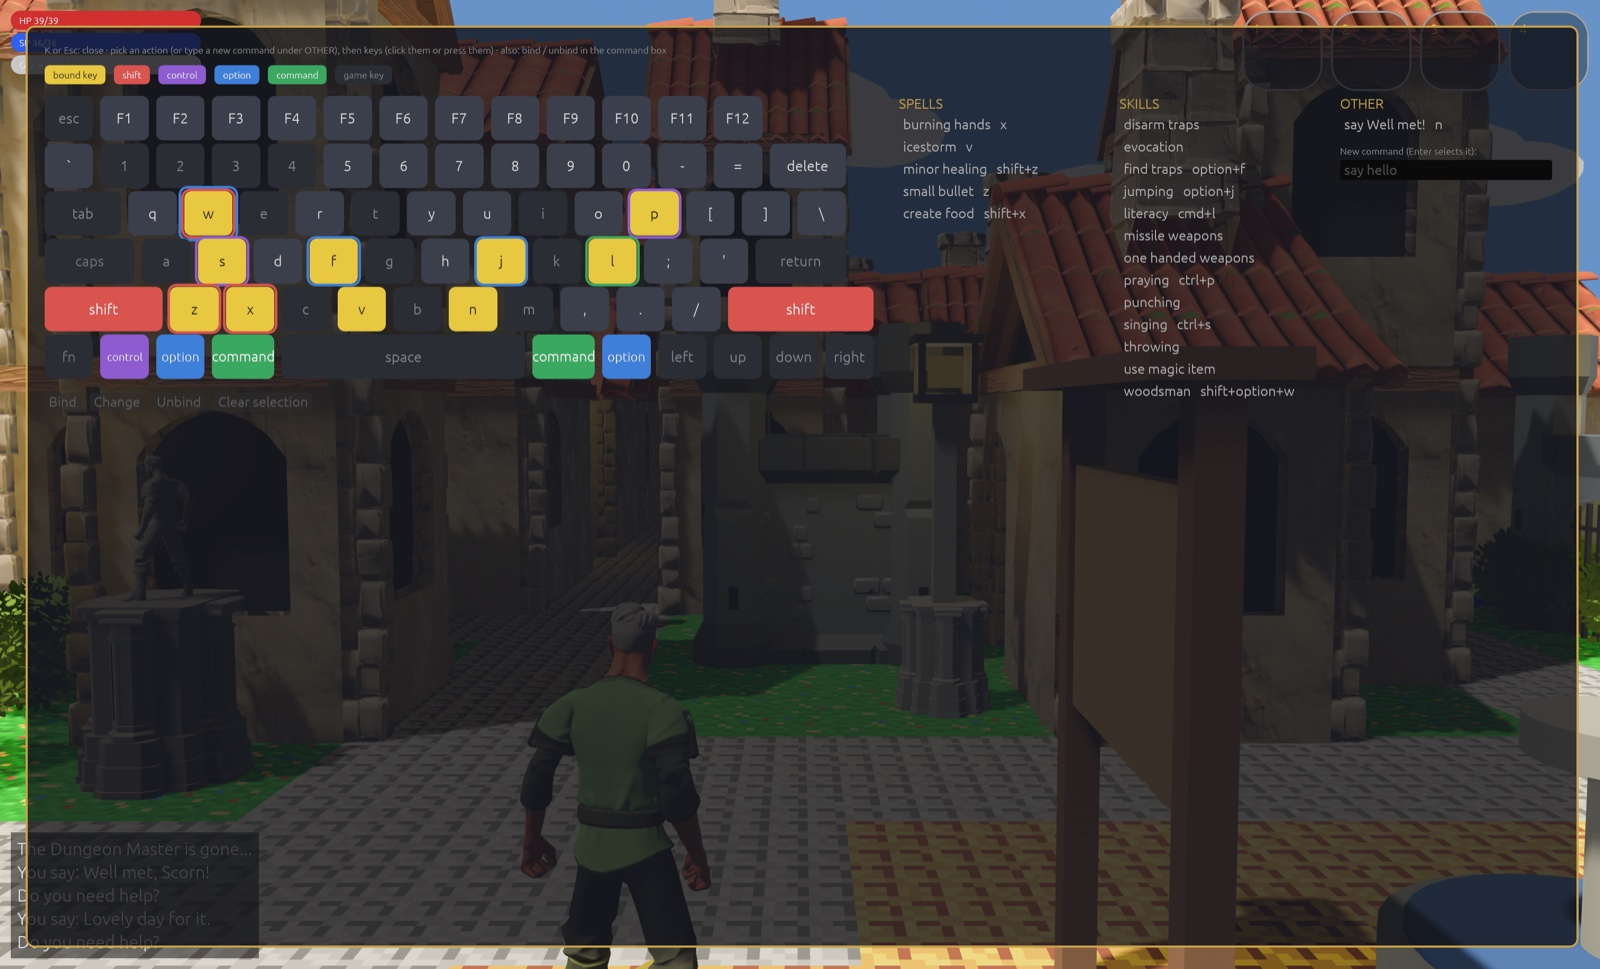
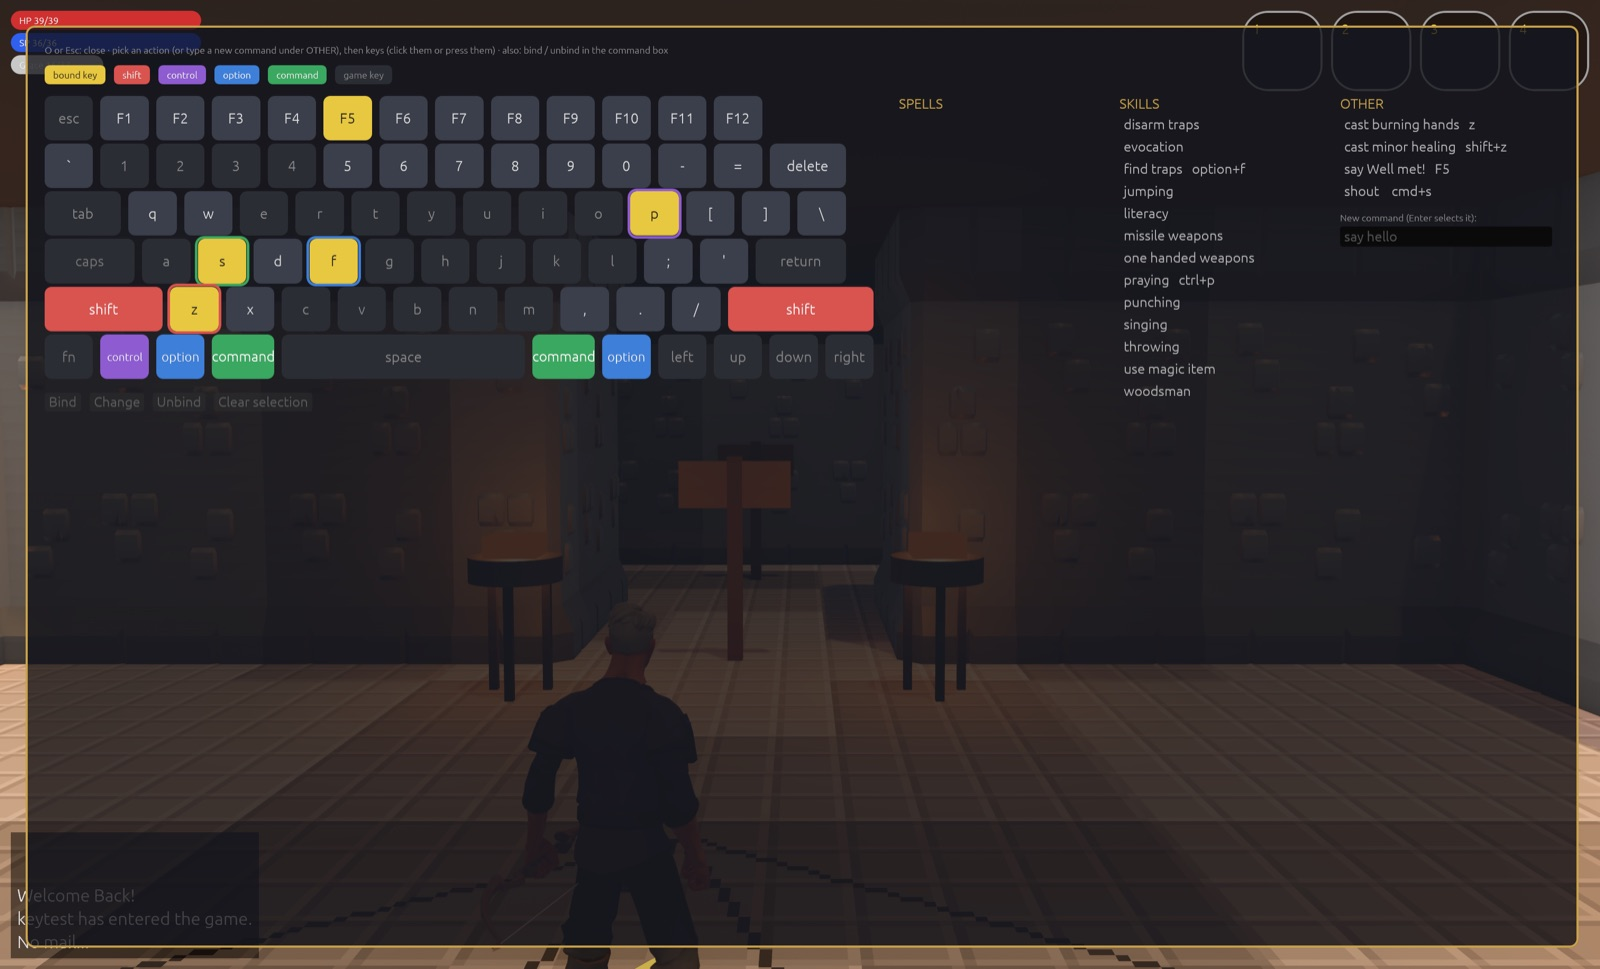
docs: a keys page (every key, and how to bind your own); new key screen picture
docs/keys.md lists the keys for moving, playing, the camera and the
screens, and explains binding: the O screen, bind / unbind in the
command box, the rules, and the keys.txt file format. The key bindings
screenshot is new: the old one still said "K or Esc: close". The README
links to the page.

Claude-Session: https://claude.ai/code/session_01NP7H9woVvSztAqgotJqzvF

diff --git a/docs/keys.md b/docs/keys.md
@@ -1,0 +1,115 @@
+# Keys
+
+All the keys Crossfir3d uses, and how to bind your own.
+
+## Moving
+
+| Keys | What they do |
+|---|---|
+| **Up** | Step forward, the way you face. |
+| **Left**, **Right** | Turn 90°, without a step. |
+| **Down** | Turn round, without a step. |
+| Number pad **8 9 6 3 2 1 4 7** | Walk by the compass: 8 north, 9 north-east, 6 east, and so on round. |
+| **K U L N J B H Y** | The same as the number pad, as in the old clients' vi keys: K north, U north-east, L east, N south-east, J south, B south-west, H west, Y north-west. |
+
+Tap a key to turn that way. Hold it to walk. Walk into a monster to attack it; hold
+the key to keep attacking.
+
+## Playing
+
+| Key | What it does |
+|---|---|
+| **A** or **E** | Apply (use): open a door, pull a lever, go into a shop. **E** also closes the parchment box. |
+| **G** | Get what you stand on. |
+| **1** to **4** | Use quick slot 1 to 4. |
+| **Space** | Fire the readied bow or wand. |
+| **T** | Turn to face the nearest monster. |
+| **V** | Show what is below you in the parchment box. |
+| **R** | Make the log tall (20 lines) or short (5 lines). |
+| **M** | Sound on or off. |
+
+## The camera
+
+| Key | What it does |
+|---|---|
+| **Tab** | Top view (north up) on or off. |
+| **C** | Camera back behind you. |
+| **F** (hold) | Look at your character's face. |
+| Mouse wheel, pinch, two-finger scroll | Zoom. |
+
+## Screens
+
+| Key | What it does |
+|---|---|
+| **I** | Inventory. **I** or **Escape** closes it. |
+| **O** | Key bindings. **O** or **Escape** closes it. |
+| **Escape** | Settings. **Escape** closes it. |
+| **Enter** | The command box: type a game command, such as `say hello`. |
+
+## Binding your own keys
+
+A binding makes a key (or a key with shift, control, option or command) run a spell,
+a skill, or any game command.
+
+![The key bindings screen](images/3d-keys.jpg)
+
+### On the key bindings screen
+
+1. Press **O**.
+2. Pick a spell, a skill, or a command under OTHER. To add a new command, type it in
+   the "New command" box under OTHER and press **Enter**.
+3. Pick the keys. Click them on the keyboard, or press the real combination, such as
+   option + 6.
+4. Press **Bind**.
+
+Bound keys are yellow. A key bound with modifiers has a ring in each modifier's colour:
+red for shift, purple for control, blue for option, green for command. Each spell,
+skill or command shows its keys beside it.
+
+Pick a bound key to **Change** or **Unbind** it. A bound spell casts the way you face. A
+bound skill is used.
+
+### In the command box
+
+The old clients' commands work too. Press **Enter**, then type:
+
+| Command | What it does |
+|---|---|
+| `bind cast burning hands` | Then press the keys to bind. |
+| `bind -g say hello` | Bind for all your characters, not only this one. |
+| `bind -e shout ` | Put the command in the command box, so you can finish it, in place of sending it. |
+| `unbind` | List your bindings, with numbers. |
+| `unbind 2` | Remove binding 2 from that list. |
+| `unbind reset` | Remove all of this character's bindings. |
+
+### Rules
+
+- A binding comes before a game key. If you bind **H**, H runs your command and no
+  longer walks west. The game asks first.
+- **Escape**, **O** and **Enter** alone can never be bound: they are your way out.
+- Keys the system uses can not be bound either: command + Q, W, H, M, Tab or Space
+  on a Mac; Alt + F4 or Tab on Windows and Linux.
+- A character's own binding comes before an all-characters binding on the same keys.
+
+### The bindings file
+
+Bindings are saved in `~/Library/Application Support/Crossfir3d/keys.txt`. You can edit
+it by hand. Each line has five parts, with a tab between them:
+
+```
+character	modifiers	key	flags	command
+```
+
+- `character`: a character's name, or `*` for all characters.
+- `modifiers`: `-` for none, or some of `shift`, `ctrl`, `option`, `cmd` joined by `+`,
+  such as `shift+cmd`.
+- `key`: a key name, such as `G`, `6`, `F3`, `Up` or `/`.
+- `flags`: `e` to put the command in the command box, else `-`.
+- `command`: the game command.
+
+For example:
+
+```
+Anna	option	F	-	use_skill find traps
+*	-	F5	-	say Well met!
+```

diff --git a/README.md b/README.md
@@ -44,6 +44,8 @@ Close them with the same key or **Escape**.
 |---|---|---|
 | ![Inventory](docs/images/3d-inventory.jpg) | ![Key bindings](docs/images/3d-keys.jpg) | ![Settings](docs/images/3d-settings.jpg) |
 
+All the keys, and how to bind your own: see [docs/keys.md](docs/keys.md).
+
 Every class has its own look: see [docs/classes.md](docs/classes.md).
 
 ## The Crossfire community
@@ -156,6 +158,8 @@ sword, ..."). **V** shows the full list in the parchment box; the Settings scree
 "Show what is under me" opens it on every new square.
 
 ### Key bindings
+
+The full list of keys and how to bind them is in [docs/keys.md](docs/keys.md).
 
 **O** opens the key bindings screen: a keyboard with your bound keys in yellow, and
 your spells and skills beside it. Pick a spell or skill, then pick keys (click them, or
